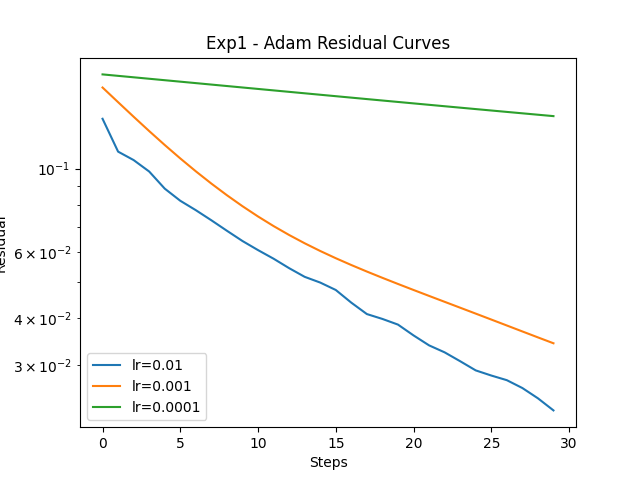
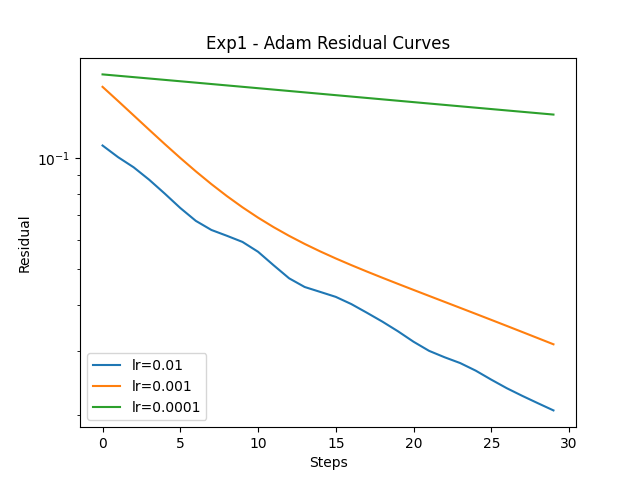
edit: requirements.txt

diff --git a/outputs/reproducibility_table.tex b/outputs/reproducibility_table.tex
@@ -3,6 +3,6 @@
 \hline
 Experiment & Metric & Value \\
 \hline
-Exp1 & Exact Residual & 4.846155553864173e-16 \\
+Exp1 & Exact Residual & 3.329154426567183e-16 \\
 \hline
 \end{tabular}